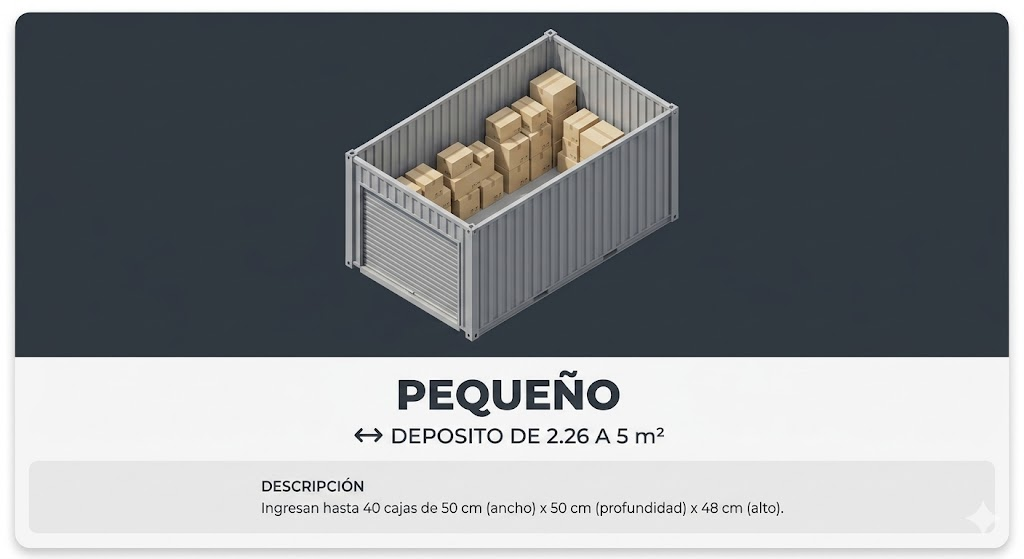
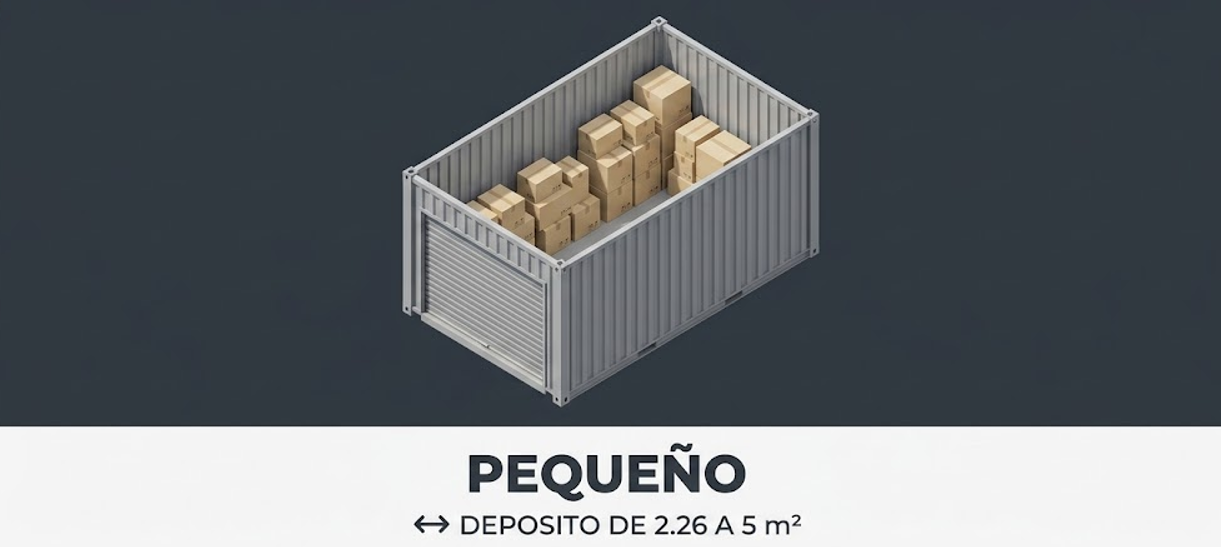
xddasdad

diff --git a/vistas/servicios/minibodega/index.html b/vistas/servicios/minibodega/index.html
@@ -93,11 +93,10 @@
             <h2>Conoce la medida de nuestros depósitos para tus cosas del hogar</h2>
 
             <div class="contenedor-medida-unica">
-                <article class="tarjeta-medida-bloque">
-                    <div class="imagen-medida">
-                        <img src="../../../assets/img/medida-pequeno.png" alt="Depósito Pequeño SmartWare">
-                    </div>
-                    <div class="contenido-medida">
+                <article class="tarjeta-articulo">
+                    <img src="../../../assets/img/medida-pequeno.png" alt="Depósito Pequeño SmartWare">
+
+                    <div class="tarjeta-cuerpo">
                         <h3>Pequeño</h3>
                         <div class="descripcion-medida">
                             <h4>Descripción</h4>
@@ -109,10 +108,7 @@
                 </article>
             </div>
 
-            <div class="contenedor-accion-central">
-                <a href="../../contacto/index.html" class="btn-hero">Quiero asesoría</a>
-            </div>
-            
+            <a href="../../contacto/index.html" class="btn-hero">Quiero asesoría</a>
         </section>
     </div>
 
@@ -130,7 +126,8 @@
             <div class="footer-columna">
                 <h3>Servicios</h3>
                 <ul>
-                    <li><a href="../../../vistas/servicios/almacenaje-industrial/index.html">Almacenaje Industrial</a></li>
+                    <li><a href="../../../vistas/servicios/almacenaje-industrial/index.html">Almacenaje Industrial</a>
+                    </li>
                     <li><a href="../../../vistas/servicios/cross-docking/index.html">Cross-Docking</a></li>
                     <li><a href="../../../vistas/servicios/minibodega/index.html">Minibodega</a></li>
                 </ul>
@@ -157,10 +154,12 @@
             <div class="footer-columna columna-ancha">
                 <h3>Horarios de atención</h3>
                 <p class="horario-titulo">Horario de atención al cliente</p>
-                <p class="horario-enlace">• Ver sección <a href="../../../vistas/sedes/index.html">Nuestras sedes</a></p>
+                <p class="horario-enlace">• Ver sección <a href="../../../vistas/sedes/index.html">Nuestras sedes</a>
+                </p>
 
                 <p class="horario-titulo">Horario de acceso y permanencia en depósitos</p>
-                <p class="horario-enlace">• Ver sección <a href="../../../vistas/sedes/index.html">Nuestras sedes</a></p>
+                <p class="horario-enlace">• Ver sección <a href="../../../vistas/sedes/index.html">Nuestras sedes</a>
+                </p>
             </div>
 
             <div class="footer-columna">

diff --git a/vistas/tecnologia/index.html b/vistas/tecnologia/index.html
@@ -68,23 +68,34 @@
 
             <h2>Arquitectura del Sistema</h2>
             <div class="grid-arquitectura">
-                <div class="tarjeta-caracteristica">
-                    <h3>Control de Concurrencia</h3>
-                    <p>Evitamos cuellos de botella informáticos asegurando que múltiples operarios registren entradas y
-                        salidas simultáneamente sin bloqueos en la Base de datos.</p>
+
+                <div class="tarjeta-caracteristica tarjeta-articulo">
+                    <img src="../../assets/img/tech-concurrencia.png" alt="Control de Concurrencia">
+                    <div class="tarjeta-cuerpo">
+                        <h3>Control de Concurrencia</h3>
+                        <p>Evitamos cuellos de botella informáticos asegurando que múltiples operarios registren
+                            entradas y salidas simultáneamente sin bloqueos en la Base de datos.</p>
+                    </div>
                 </div>
 
-                <div class="tarjeta-caracteristica">
-                    <h3>Trazabilidad Inmutable</h3>
-                    <p>Cada artículo cuenta con un historial de transacciones seguro desde que entra al muelle de carga
-                        hasta que es despachado al cliente final.</p>
+                <div class="tarjeta-caracteristica tarjeta-articulo">
+                    <img src="../../assets/img/tech-trazabilidad.png" alt="Trazabilidad Inmutable">
+                    <div class="tarjeta-cuerpo">
+                        <h3>Trazabilidad Inmutable</h3>
+                        <p>Cada artículo cuenta con un historial de transacciones seguro desde que entra al muelle de
+                            carga hasta que es despachado al cliente final.</p>
+                    </div>
                 </div>
 
-                <div class="tarjeta-caracteristica">
-                    <h3>Reportes Gerenciales</h3>
-                    <p>Generación automatizada de dashboards visuales y reportes de stock crítico para una gestión
-                        logística proactiva.</p>
+                <div class="tarjeta-caracteristica tarjeta-articulo">
+                    <img src="../../assets/img/tech-reportes.png" alt="Reportes Gerenciales">
+                    <div class="tarjeta-cuerpo">
+                        <h3>Reportes Gerenciales</h3>
+                        <p>Generación automatizada de dashboards visuales y reportes de stock crítico para una gestión
+                            logística proactiva.</p>
+                    </div>
                 </div>
+
             </div>
 
 

diff --git a/assets/css/componentes.css b/assets/css/componentes.css
@@ -498,55 +498,10 @@ input[type="submit"]:hover {
     justify-content: center; /* Centrado horizontalmente */
     margin: 30px 0; /* Espaciado vertical */
 }
-
-/* Tarjeta de medida: bloque vertical estricto */
-.tarjeta-medida-bloque {
-    background: #fff; /* Fondo blanco */
-    border: 1px solid #e0e0e0; /* Borde gris claro */
-    border-radius: 16px; /* Esquinas redondeadas */
-    overflow: hidden; /* Recorta contenido */
-    width: 100%; /* Ancho total */
-    max-width: 350px; /* Ancho máximo ideal */
-    box-shadow: 0 4px 15px rgba(0,0,0,0.06); /* Sombra sutil */
-    transition: transform 0.3s ease, box-shadow 0.3s ease; /* Transiciones suaves */
-    display: block; /* Comportamiento bloque */
-    text-align: left; /* Texto alineado a la izquierda */
-}
-
-/* Efecto hover: tarjeta se eleva */
-.tarjeta-medida-bloque:hover {
-    transform: translateY(-5px); /* Se eleva 5px */
-    box-shadow: 0 12px 24px rgba(0,0,0,0.12); /* Sombra aumentada */
-}
-
-/* Contenedor para imagen isométrica con fondo oscuro */
-.imagen-medida {
-    background-color: #1a1a1a; /* Fondo negro oscuro */
-    padding: 25px 20px; /* Espaciado interno */
-    height: 220px; /* Altura fija */
-    display: flex; /* Flexbox */
-    justify-content: center; /* Centrado horizontal */
-    align-items: center; /* Centrado vertical */
-}
-
-/* Imagen dentro del contenedor */
-.imagen-medida img {
-    max-width: 100%; /* Ancho máximo */
-    max-height: 100%; /* Alto máximo */
-    object-fit: contain; /* Mantiene proporciones */
-}
-
-/* Bloque de contenido (título y descripción) */
-.contenido-medida {
-    padding: 25px 20px; /* Espaciado interno */
-}
-
-/* Título de la medida */
-.contenido-medida h3 {
-    color: #1a1a1a; /* Negro oscuro */
-    font-size: 1.4em; /* Tamaño grande */
-    margin-bottom: 15px; /* Espacio debajo */
-    font-weight: bold; /* Texto en negrita */
+.contenedor-medida-unica .tarjeta-articulo {
+    width: 100%;
+    max-width: 350px; 
+    text-align: left; /* Mantiene el texto alineado a la izquierda por dentro */
 }
 
 /* Subtítulo descriptivo de las medidas */
@@ -585,9 +540,3 @@ input[type="submit"]:hover {
     display: inline-block; /* Comportamiento bloque en línea */
 }
 
-/* Contenedor del botón inferior: centrado */
-.contenedor-accion-central {    
-    display: flex; /* Flexbox */   
-    justify-content: center; /* Centrado horizontal */
-    margin-top: 20px; /* Espacio superior */
-}
